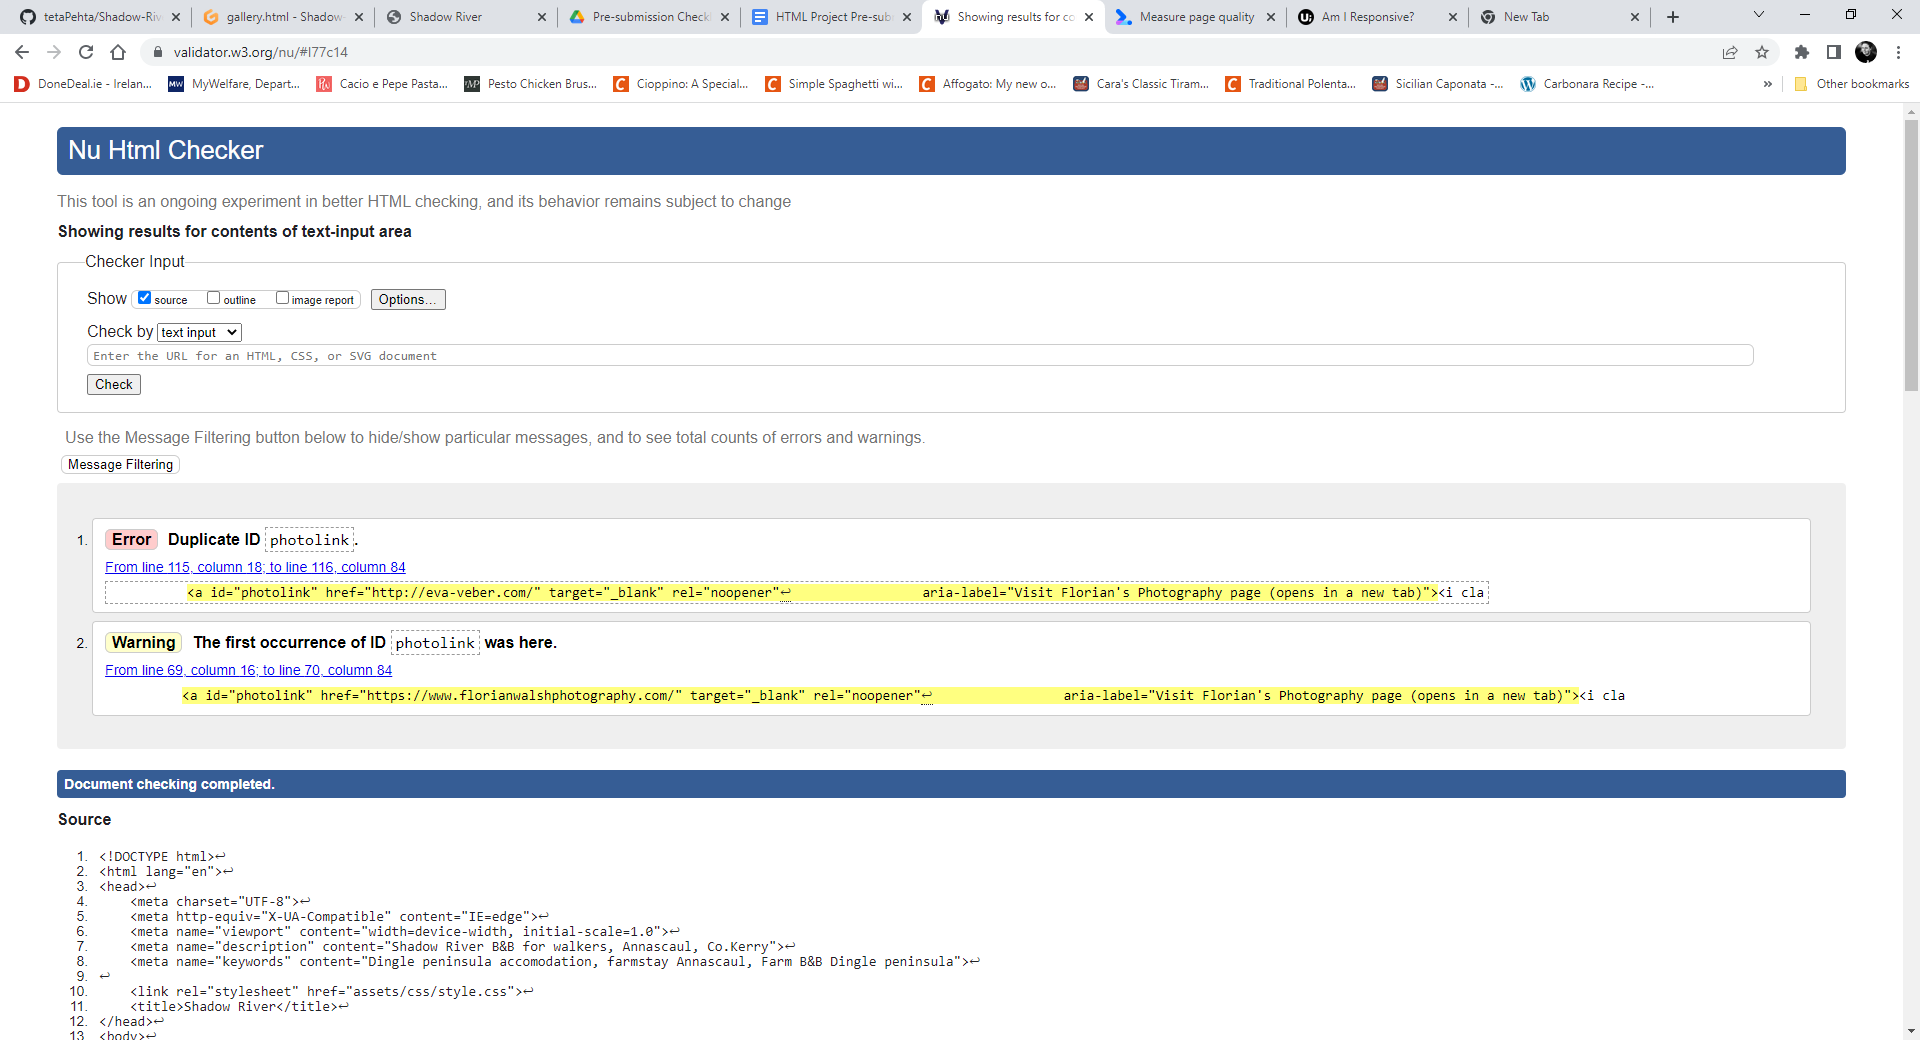
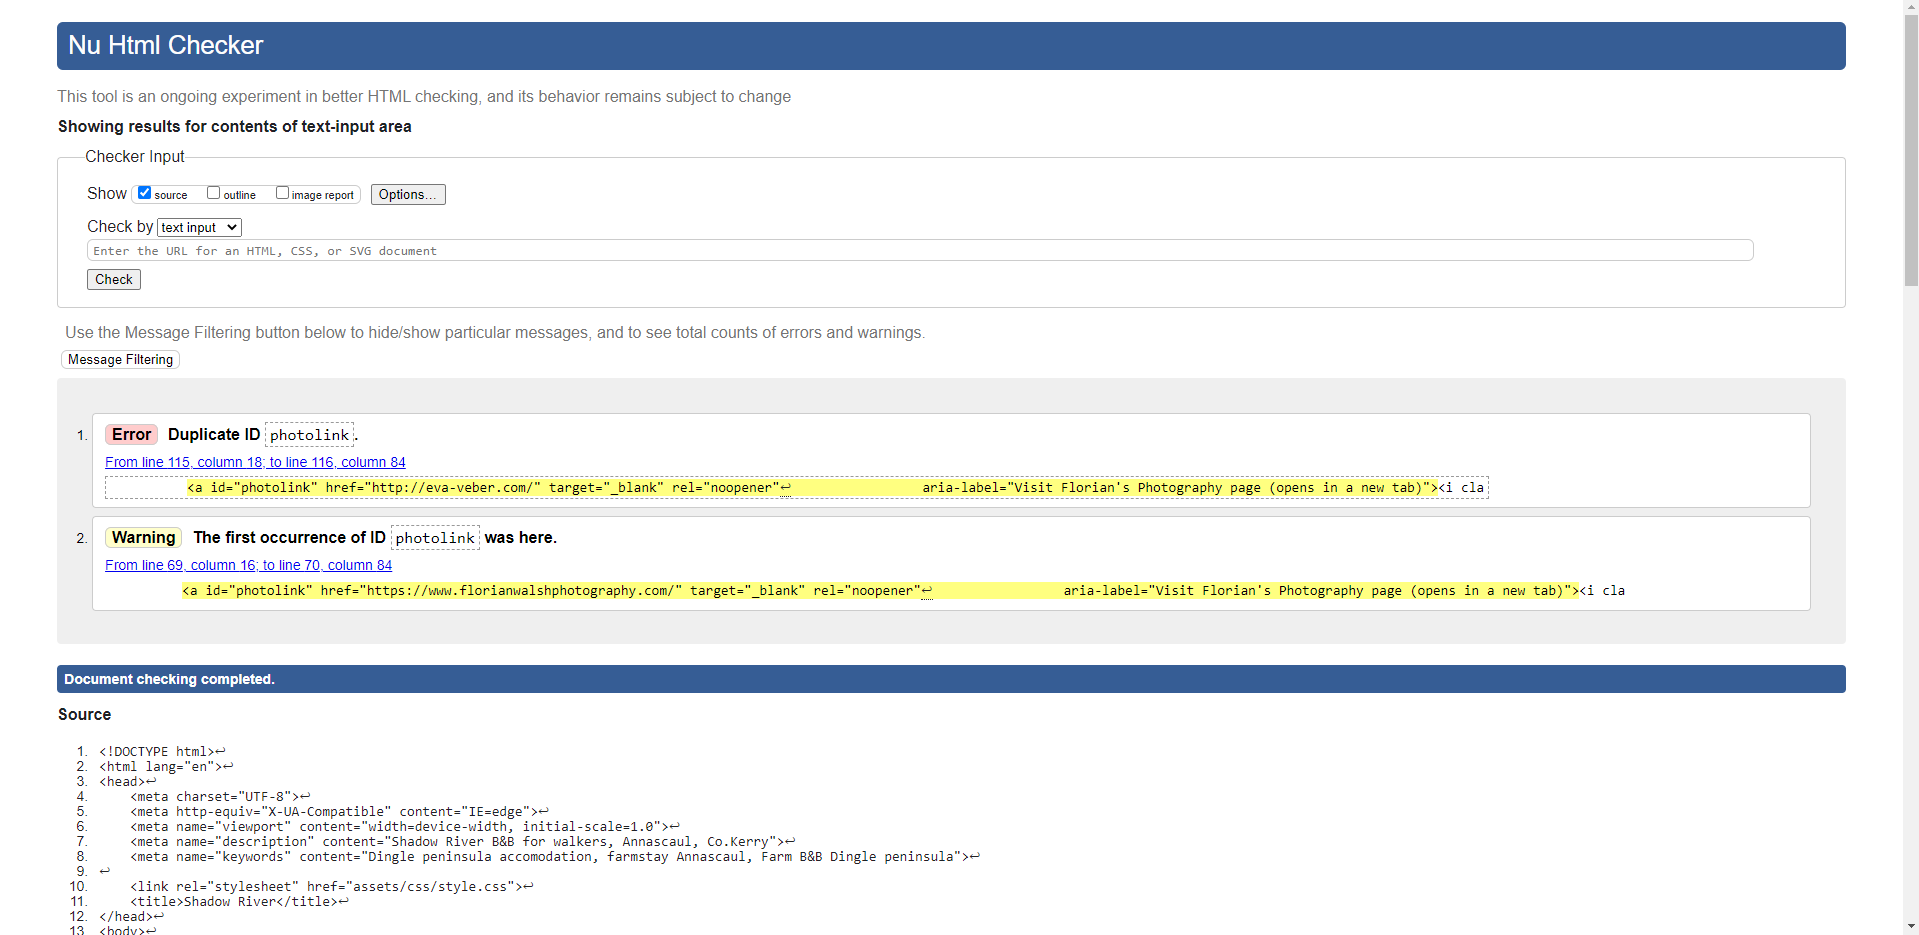
Crop and re-name screenshots for README

Changed region(s): [[0.0, 0.0, 1.0, 0.6824], [0.0307, 0.7134, 0.9838, 1.0], [0.9838, 0.2791, 1.0, 0.3722]]

diff --git a/README.md b/README.md
@@ -7,7 +7,7 @@ This is a website for Open farm and B&B in Annascaul, Co.Kerry. The website is d
 
 Below You can find a link to Am I responsive page that shows the website on different devices.
 
-! [Am I responsive.](..//Shadow-River-B-B/documentation/Am%20I%20Responsive_%20-%20Google%20Chrome%2023_01_2023%2014_02_52.png)
+![Am-I-responsive](documentation/am-i-responsive.png)
 
 ## User Experience (UX)
 
@@ -59,9 +59,9 @@ Below You can find a link to Am I responsive page that shows the website on diff
   2.  [Balsamiq:](https://balsamiq.com/)
 
     - Balsamiq was used to create the wireframes during the design process. 
-      ! [Home-page](/documentation/Wireframe1.png)
-      ! [Gallery-page](/documentation/Wireframe2.png)
-      ! [Book-your-holiday-page](/documentation/Wireframe3.png)
+![home](documentation/wireframe1.png)
+![gallery](documentation/wireframe2.png)
+![book](documentation/wireframe3.png)
 
    3. [GitHub:](https://github.com/)
 
